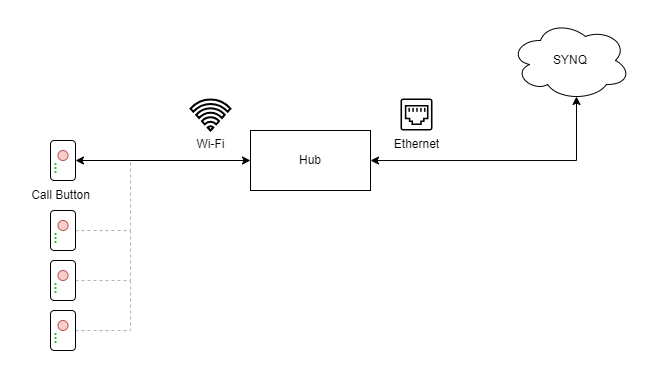
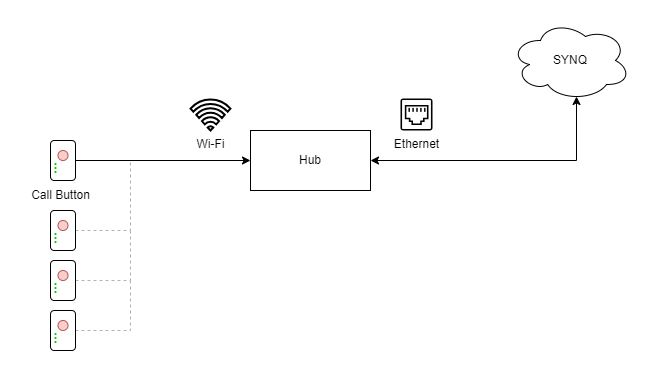
Add call button protocol and update arch diagram

diff --git a/docs/call-for-help/call-buttons.md b/docs/call-for-help/call-buttons.md
@@ -205,6 +205,12 @@ For all deployments we recommend you create a "Manager" or "Escalations" channel
 |Deli|Deli|
 |Meats|Meats|
 
+## Button to Hub Communication Protocol
+- Protocol: [ESP-NOW](https://www.espressif.com/en/solutions/low-power-solutions/esp-now)
+- Frequency: 2.4 GHz (channel 1)
+- Data Rate: 250 kbps
+- Power: -20 dBm
+
 ## Troubleshooting
 
 ### Hub LED indicator lights
